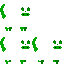
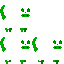
players now animate, hearts should always show on screen

diff --git a/Assets/player/CatController.cs b/Assets/player/CatController.cs
@@ -68,6 +68,8 @@ public class CatController : MonoBehaviour {
 	bool clingingRight = false;
 	bool hasClung = false;
 
+	Animator an;
+
 
 
 	[SerializeField] State st = State.Falling;
@@ -76,6 +78,7 @@ public class CatController : MonoBehaviour {
 	void Start () {
 		rb = GetComponent<Rigidbody2D>();
 		sp = GetComponent<SpriteRenderer>();
+		an = GetComponent<Animator>();
 		source = GetComponent<AudioSource>();
 		spawnPosition = new Vector3(transform.position.x,transform.position.y,transform.position.z);
 		lives =9;
@@ -106,6 +109,12 @@ public class CatController : MonoBehaviour {
 		if (!canWallJump)
 			wall = false;
 
+		if (an != null) {
+			if (moveDir != 0.0f && st == State.Grounded)
+				an.SetBool ("Walking", true);
+			else
+				an.SetBool ("Walking", false);
+		}
 
 		switch (st) {
 		case State.Grounded:
